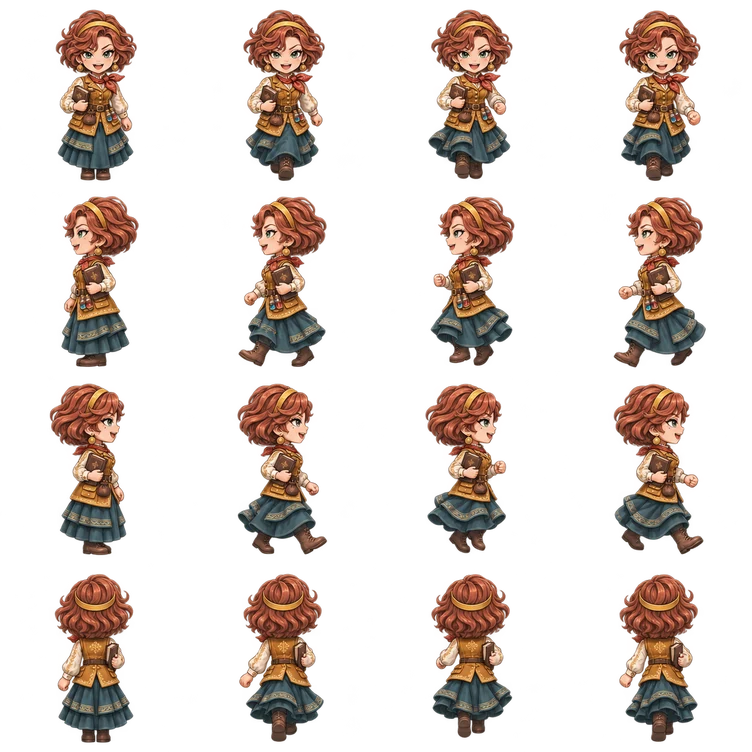
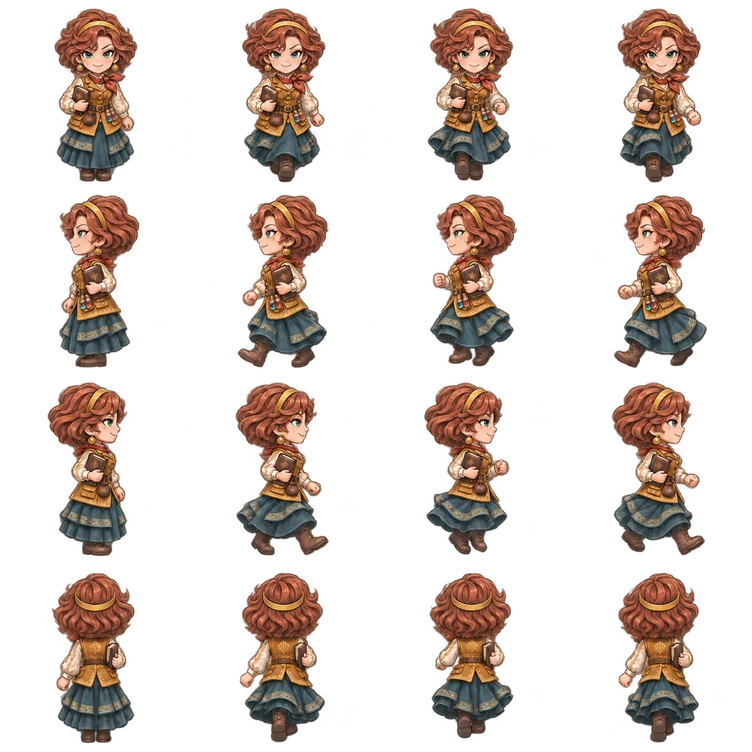
Refresh closed-mouth walk assets for latest NPC renderer

diff --git a/src/assets/characters/SD_EXPRESSIONS.md b/src/assets/characters/SD_EXPRESSIONS.md
@@ -4,6 +4,6 @@
 
 이미지 생성 도구로 시아·루안·도란·메리나·로제타·베르넬·테온·페른·벨카의 `sd_idle.png`를 수정했습니다. 기존에 입을 다문 다른 인물과 시아의 계승 이후 이미지는 유지했습니다. 대화용 일러스트에는 이 규칙을 일괄 적용하지 않습니다.
 
-벨카를 제외한 위 여덟 명은 `walk_cardinal.png`와 `walk_diagonal.png`의 보이는 얼굴에도 같은 기준을 적용합니다. 프레임 배치·방향·걷기 포즈는 기존 시트를 따르고 좌표 데이터는 수정된 원본에서 다시 측정합니다. 게임에서 이미 사용하는 `sd-300.webp`와 시아·루안의 `walk_*-60.webp`도 원본에 맞춰 다시 내보냅니다.
+벨카를 제외한 위 여덟 명은 `walk_cardinal.png`와 `walk_diagonal.png`의 보이는 얼굴에도 같은 기준을 적용합니다. 프레임 배치·방향·걷기 포즈는 기존 시트를 따르고 좌표 데이터는 수정된 원본에서 다시 측정합니다. 최신 NPC 구현은 정지할 때도 걷기 시트의 대기 프레임을 사용하므로, 게임에서 사용하는 모든 `walk_*-60.webp`를 원본에 맞춰 다시 내보냅니다. 이전의 `sd-300.webp`는 최신 구현에서 제거됐습니다.
 
 미술 수정은 이미지 생성 도구로 진행하며, 프레임 측정과 실행용 크기·포맷 변환은 기존 에셋 스크립트를 사용합니다. 새 인물이나 시트를 추가할 때도 정면·측면·대각선의 입 모양을 함께 확인합니다.
